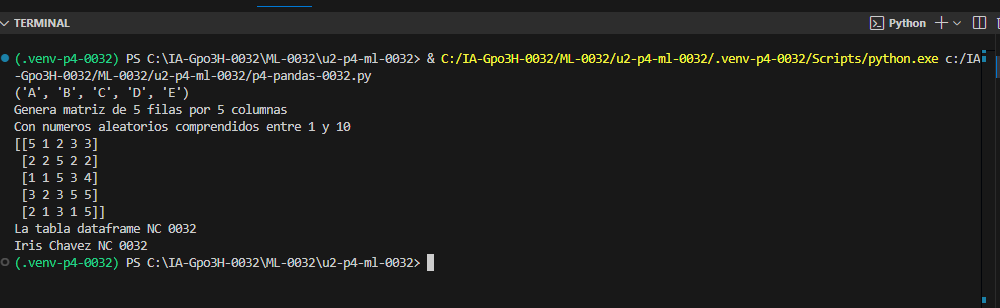
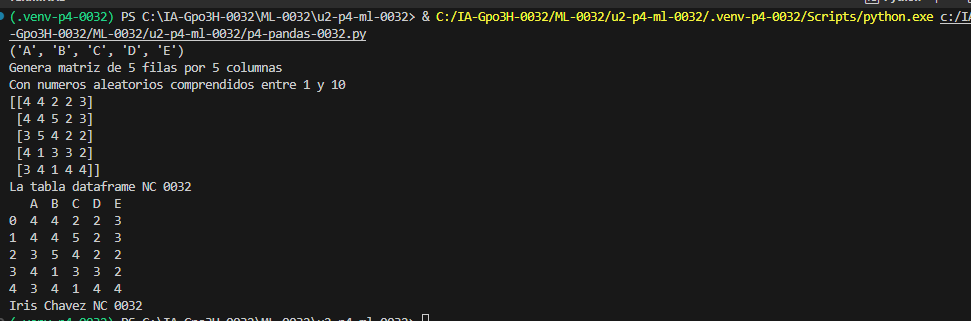
Add files via upload

Changed region(s): [[0.0, 0.0, 1.0, 0.9058], [0.0, 0.9351, 0.4325, 1.0], [0.9578, 0.9643, 0.9887, 0.9935]]

diff --git a/p4-pandas-0032.py b/p4-pandas-0032.py
@@ -12,5 +12,5 @@ print(matriz)
 # la variable df es Dataframe
 df = pd.DataFrame(matriz, columns = tag_columna)
 print("La tabla dataframe NC 0032")
-
+print(df)
 print("Iris Chavez NC 0032")
